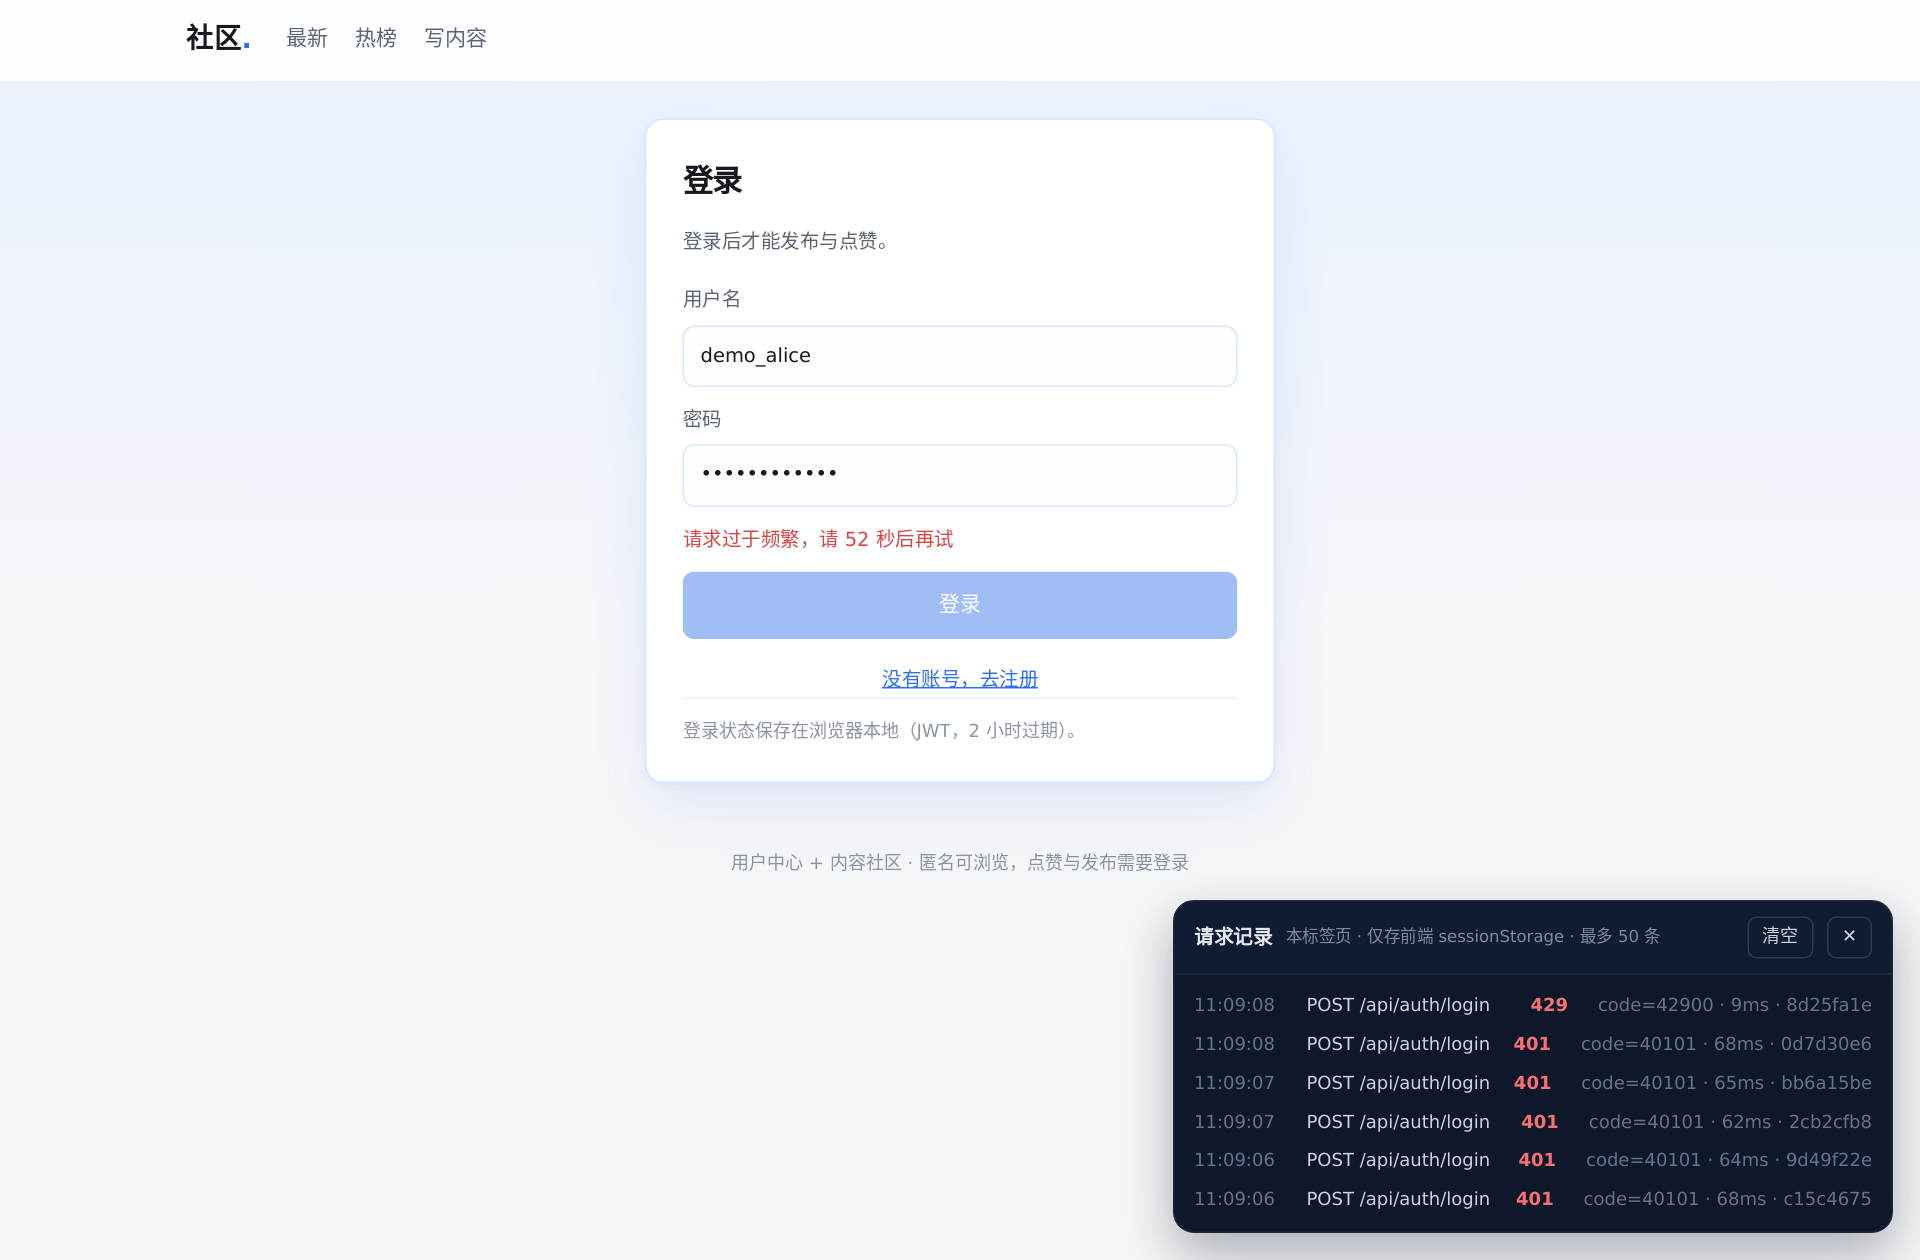
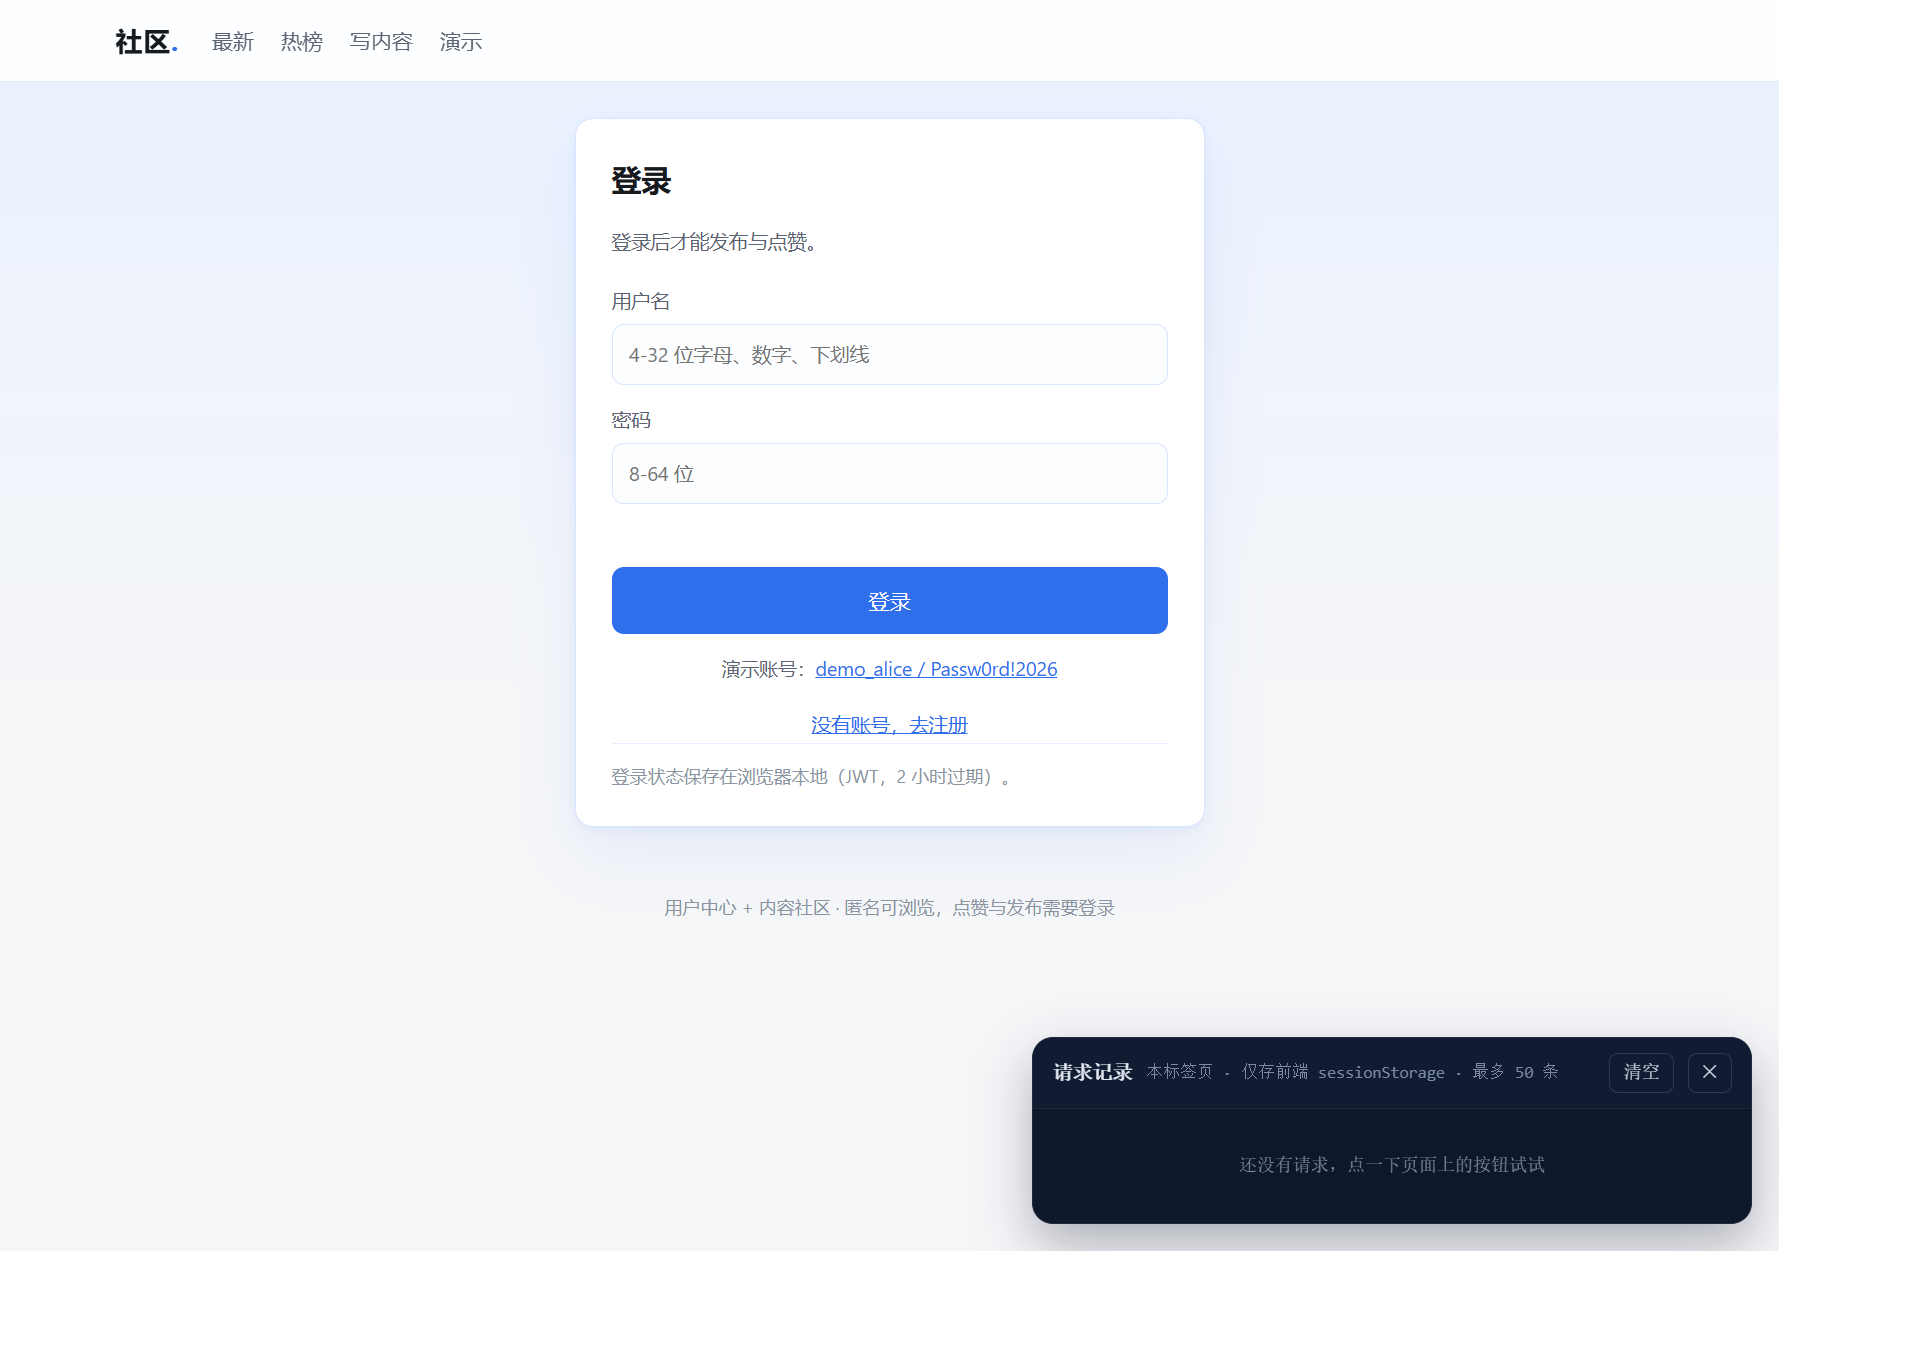
docs(repo): 精简 README 与架构说明，更新界面截图

diff --git a/README.md b/README.md
@@ -4,53 +4,15 @@
 > 点赞与 Redis 热榜 → 限流与幂等。
 > 附一个同源前端页，clone 下来两条命令就能看到界面，以及每个请求的状态码。
 
-**17 个 REST 接口 · 14 个测试类 / 55 个用例 · 测试跑在真实 MySQL 8 + Redis 7 上，不 mock。**
-
 ## 界面
 
 - 首页：匿名可读信息流与热榜；点赞、发布需要登录
 - 右下角 **请求日志**：每次调用显示「方法 路径 状态码 traceId 耗时」，可以现场撞出 `429`，
   也能看到幂等重放返回的 `200`
 
-## 三个关键取舍
+![登录页：演示账号一键填充](screenshots/limit.png)
 
-- **点赞幂等**：不靠「先查再插」，而是唯一键 + `INSERT IGNORE`，只有 `inserted == 1` 才加计数。
-  代价：不能拿 Redis `SADD` 的返回值当判据，Redis 只能是加速层。
-- **游标分页**：`WHERE id < cursor ORDER BY id DESC`，游标取上一页最后一条 id。
-  代价：不能跳页；游标必须严格 `<`，写成 `<=` 会重复。
-- **Redis 故障降级**：写路径以 MySQL 为准，Redis 失败只 `log.warn`，点赞仍然成功。
-  代价：降级期间热榜与计数缓存短暂不准。
-
-完整 10 条（每条都写了代价）见 [ARCHITECTURE.md](ARCHITECTURE.md)。
-
-## 怎么自己验证
-
-```bash
-mvn test    # 55 个用例。跑前 content / content_like 必须为空，见「快速开始」末尾的说明
-```
-
-```bash
-# 1) 登录拿 token（演示账号见「快速开始」）
-curl -s -X POST localhost:8080/api/auth/login \
-  -H 'Content-Type: application/json' \
-  -d '{"username":"demo_alice","password":"Passw0rd!2026"}'
-# {"code":0,"message":"成功","data":{"token":"eyJhbGciOiJIUzI1NiJ9..."}}
-
-# 2) 同一分钟连错 6 次：前 5 次 401，第 6 次 429
-#    限流按 IP 计，成功登录的那次也算一次
-for i in $(seq 6); do
-  curl -s -o /dev/null -w "%{http_code} " -X POST localhost:8080/api/auth/login \
-    -H 'Content-Type: application/json' -d '{"username":"demo_alice","password":"wrong"}'
-done; echo
-# 401 401 401 401 401 429
-```
-
-## 已知边界
-
-- 只有内容与点赞，**没有评论、搜索、分类 / 标签**
-- 分页是游标式，**不支持跳到第 N 页**
-- 单机部署（内嵌 Tomcat + 单实例 Redis），**没有 CI、没有压测报告**
-- 前端是原生 JS 静态页，只用来展示接口行为，**没有前端测试**
+![演示页：连错 6 次触发 429 与幂等重放](screenshots/lab.png)
 
 ## 快速开始
 
@@ -88,33 +50,6 @@ redis-cli DEL hot:content               # 让热榜从 DB 重建
 不灌演示数据也能跑完所有功能，首页会显示空态。注意：**演示数据不要带进 `mvn test`**，
 分页用例假设 `content` 表为空（所以 seed 刻意没有挂进 `docker-entrypoint-initdb.d`）。
 
-## 接口
-
-17 个接口，完整契约（请求体、响应体、错误码）见 [API.md](API.md)。
-
-| 方法 | 路径 | 鉴权 | 说明 |
-| --- | --- | --- | --- |
-| POST | `/api/auth/register` | 匿名 | 注册，创建成功返回 201 |
-| POST | `/api/auth/login` | 匿名 | 登录，按 IP 限流 5 次 / 分钟 |
-| POST | `/api/auth/logout` | 需要 | 登出，jti 进黑名单 |
-| GET | `/api/me` | 需要 | 当前用户资料 |
-| PATCH | `/api/me` | 需要 | 部分更新（只改传了的字段） |
-| GET | `/api/contents` | 匿名 | 游标分页信息流 |
-| POST | `/api/contents` | 需要 | 发布，支持 `Idempotency-Key` |
-| GET | `/api/contents/{id}` | 匿名 | 详情（带缓存） |
-| DELETE | `/api/contents/{id}` | 需要 | 软删，只能删自己的 |
-| POST | `/api/contents/{id}/like` | 需要 | 点赞，幂等 |
-| DELETE | `/api/contents/{id}/like` | 需要 | 取消点赞 |
-| GET | `/api/contents/{id}/like` | 需要 | 当前用户的点赞态 |
-| GET | `/api/contents/hot` | 匿名 | 热榜 Top N |
-| GET | `/api/users/{id}` | 匿名 | 公开资料 |
-| GET | `/api/users/{id}/contents` | 匿名 | 某人发布的内容 |
-| GET | `/api/me/contents` | 需要 | 我发布的 |
-| GET | `/api/me/likes` | 需要 | 我赞过的 |
-
-统一响应体：`{"code": 0, "message": "成功", "data": ...}`。
-`code` 非 0 时是 5 位业务错误码，前三位即对应的 HTTP 状态码（如 `40901` → 409）。
-
 ## 目录结构
 
 ```
@@ -140,23 +75,6 @@ community/
 ```
 
 按**能力**分包，不按 `controller/service/mapper` 分层：后者会让一个功能的改动散落在四个目录里。
-
-## 测试
-
-```bash
-mvn test
-```
-
-14 个类 / 55 个用例，跑在真实的 MySQL + Redis 上（没有把存储 mock 掉）。
-
-| 关注点 | 用例在验什么 |
-| --- | --- |
-| 密码与 JWT | BCrypt 同密码不同哈希；六种无效 token 全部拒绝 |
-| 鉴权边界 | 无 token / 篡改 / 过期 / 黑名单；匿名可读，写接口仍 401 |
-| 分页与缓存 | 游标三页无重复；缓存 miss → hit；空值标记挡住穿透 |
-| 点赞与热榜 | 重复点赞计数不变；ZSet 与 SQL 排序一致；缓存清空后自动重建 |
-| 并发与降级 | 50 线程并发点赞只落 1 行；Redis 全挂时点赞仍成功 |
-| 端到端 | 注册 → 登录 → 发布（幂等）→ 列表 → 详情 → 删除 → 404 |
 
 ## 技术栈
 

diff --git a/ARCHITECTURE.md b/ARCHITECTURE.md
@@ -1,8 +1,5 @@
 # 架构说明
 
-> 面向代码审阅者。这个项目为什么长这样，比它长什么样更重要。
-> 每条决策都按「问题 → 方案 → 代价」写。**没写代价的方案等于没评估过。**
-
 ---
 
 ## 一、项目定位
